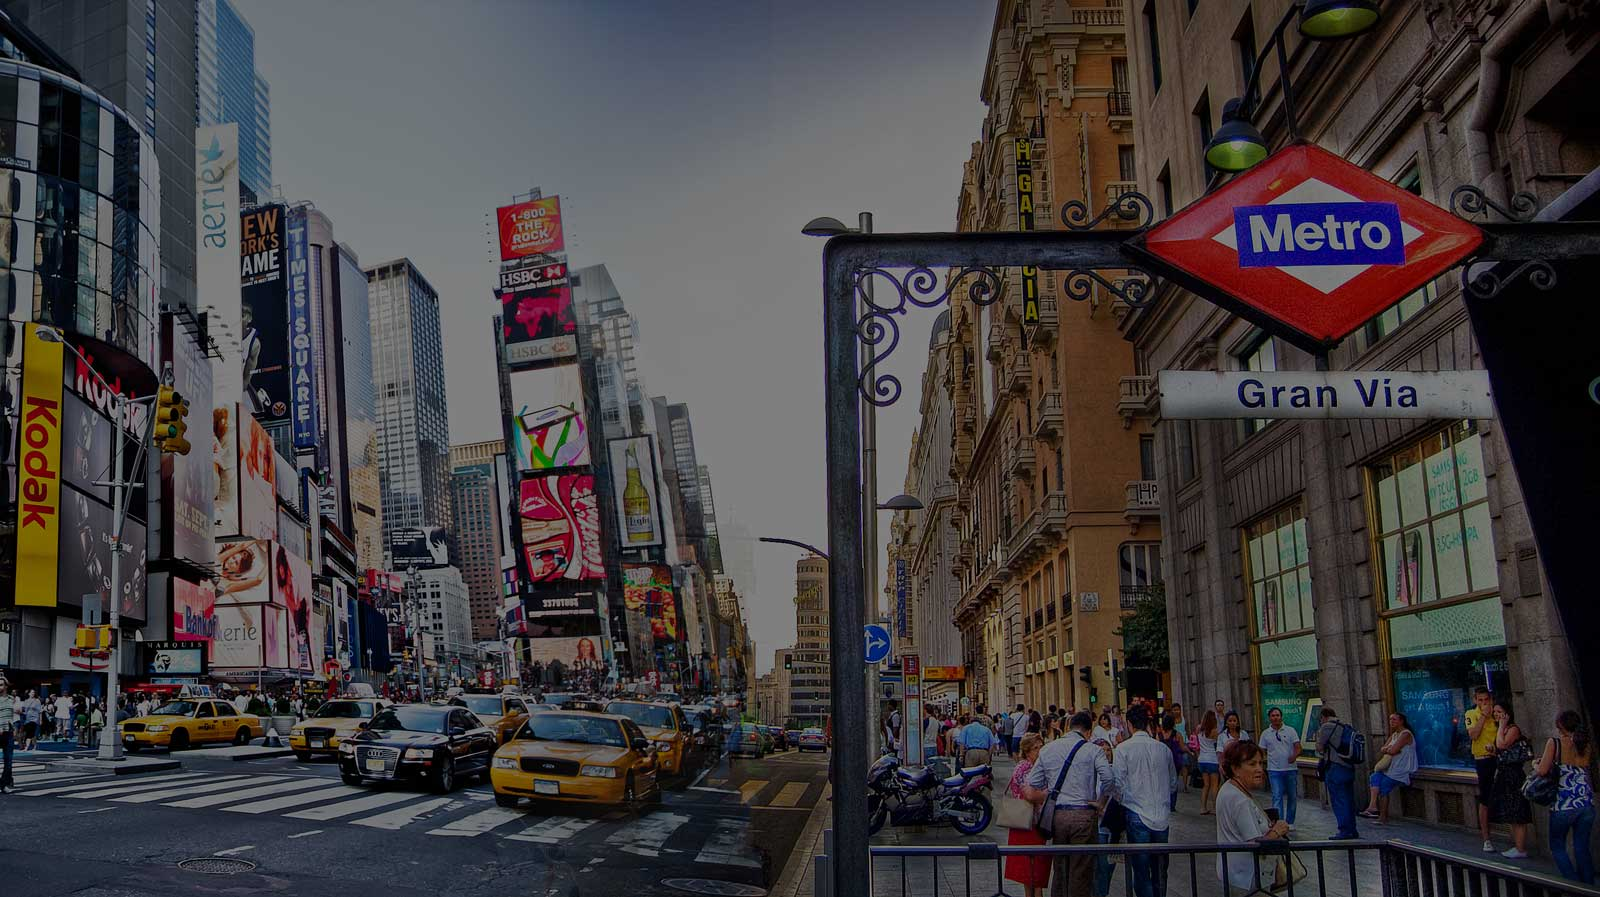
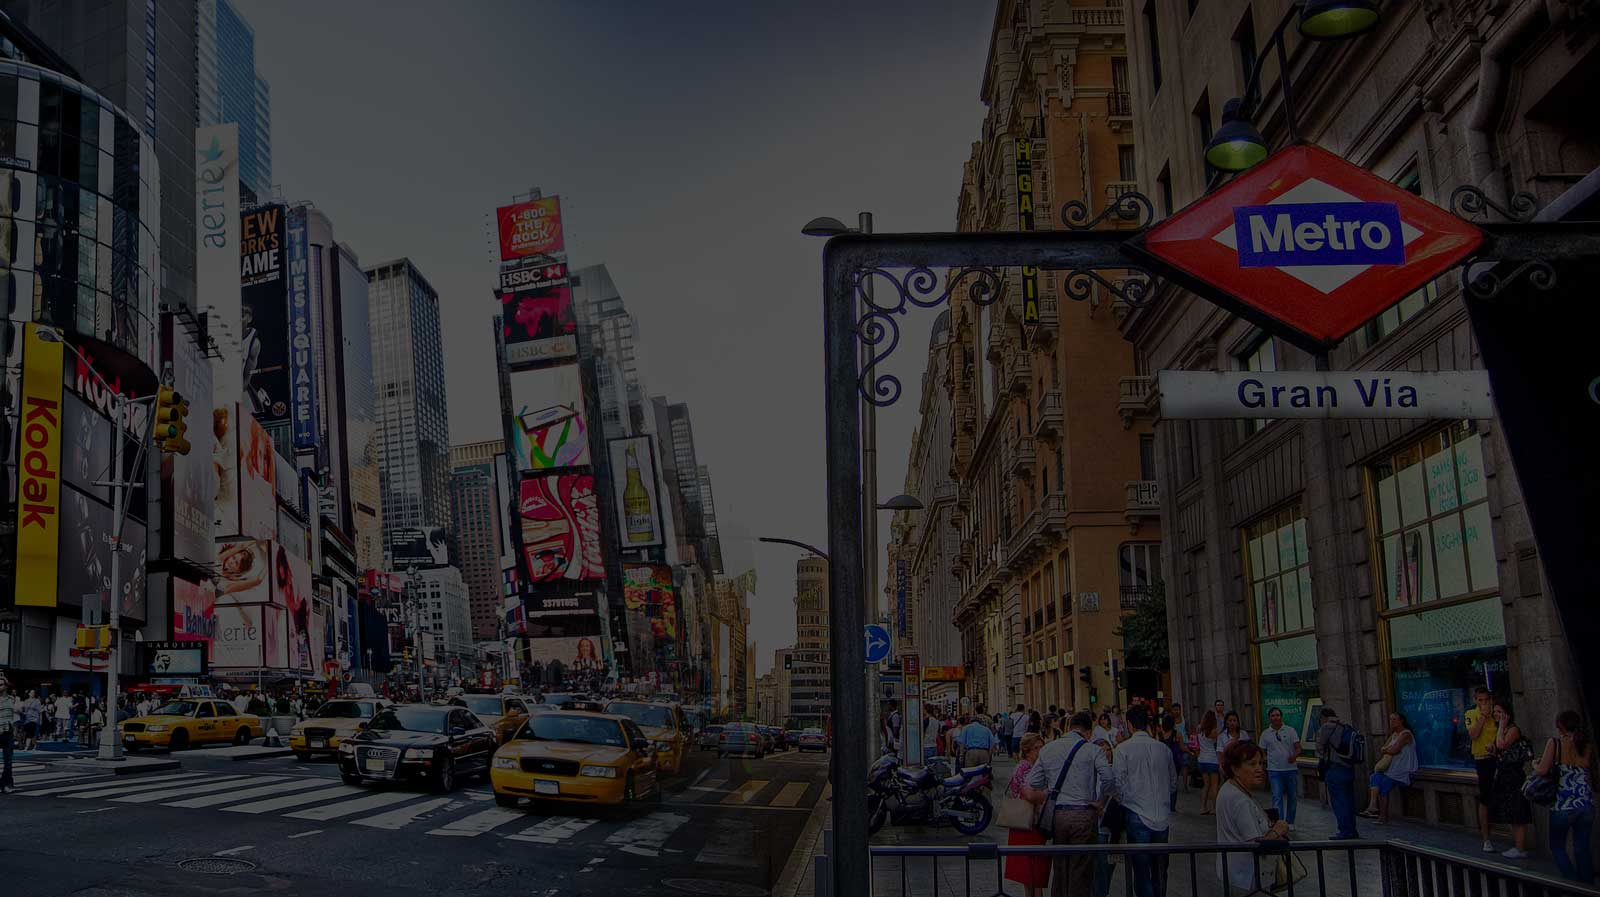
several changes

diff --git a/public/stylesheets/style.css b/public/stylesheets/style.css
@@ -485,6 +485,11 @@ body {
 #contact {
   background: url(/images/mad-ny.jpg) no-repeat bottom center scroll;
   background-color: #454545;
+  -webkit-background-size: cover;
+  -moz-background-size: cover;
+  background-size: cover;
+  -o-background-size: cover;
+
   color: #FFF;
 }
 .container-full {
